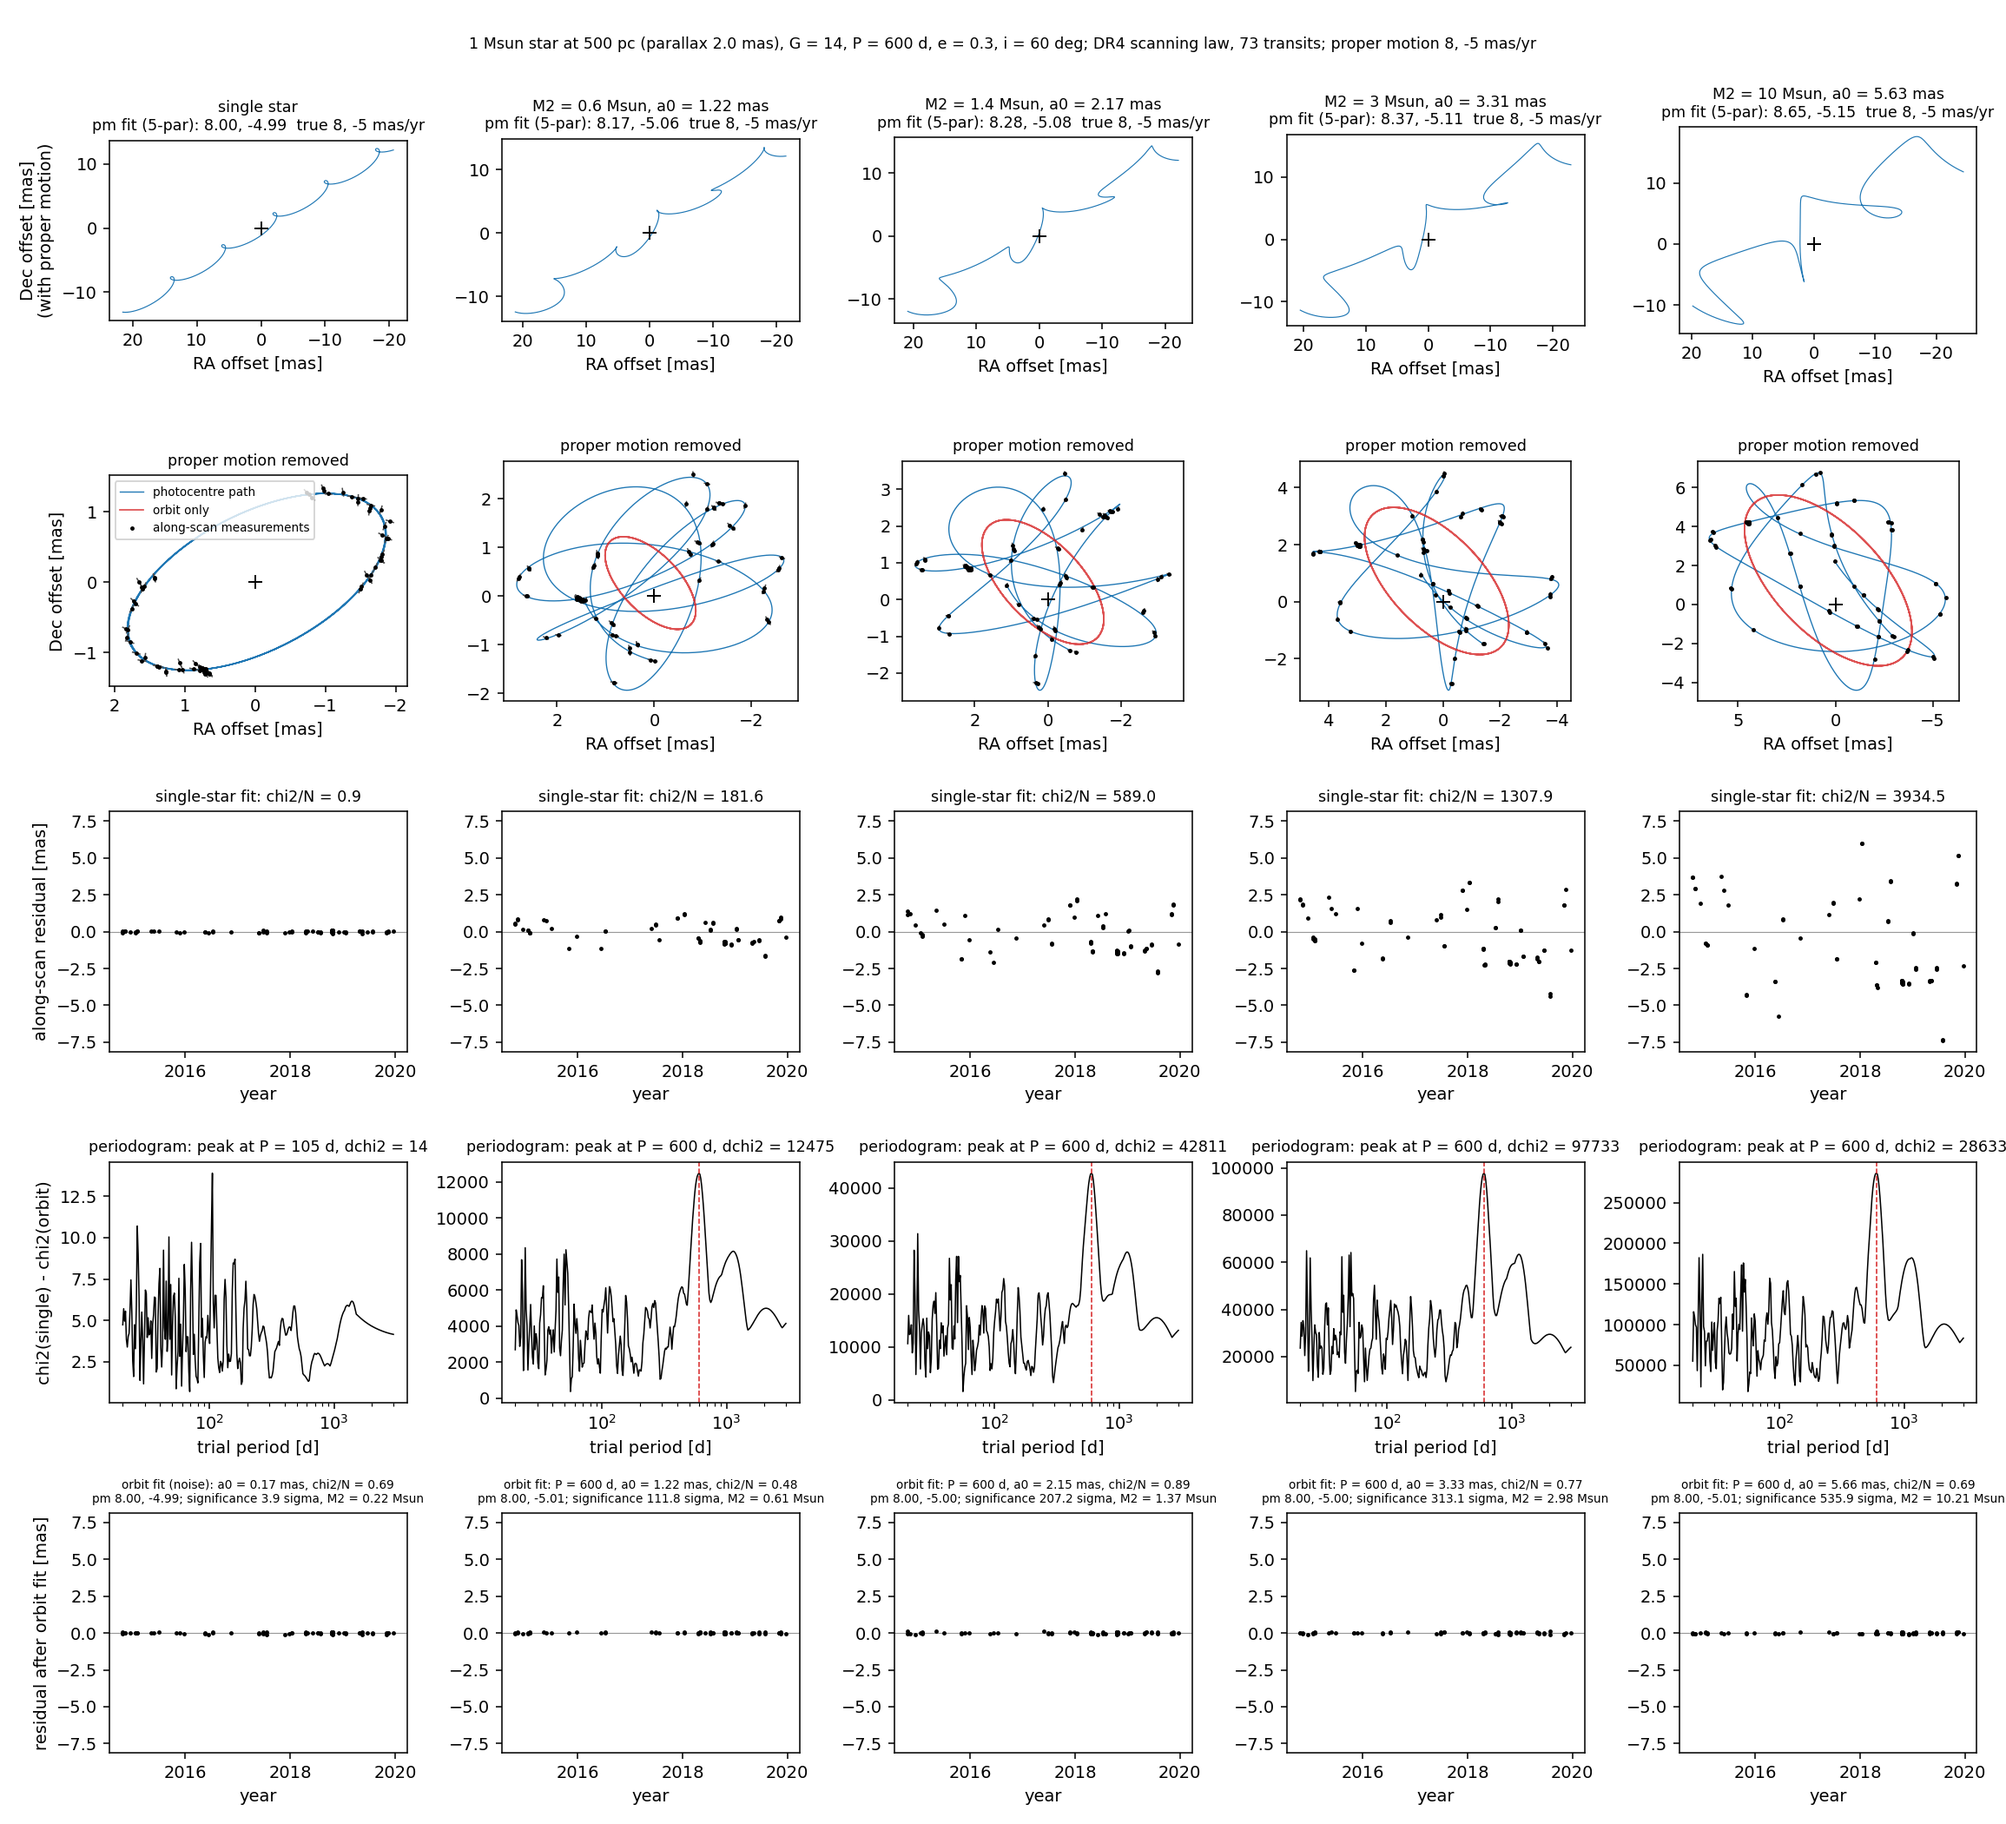
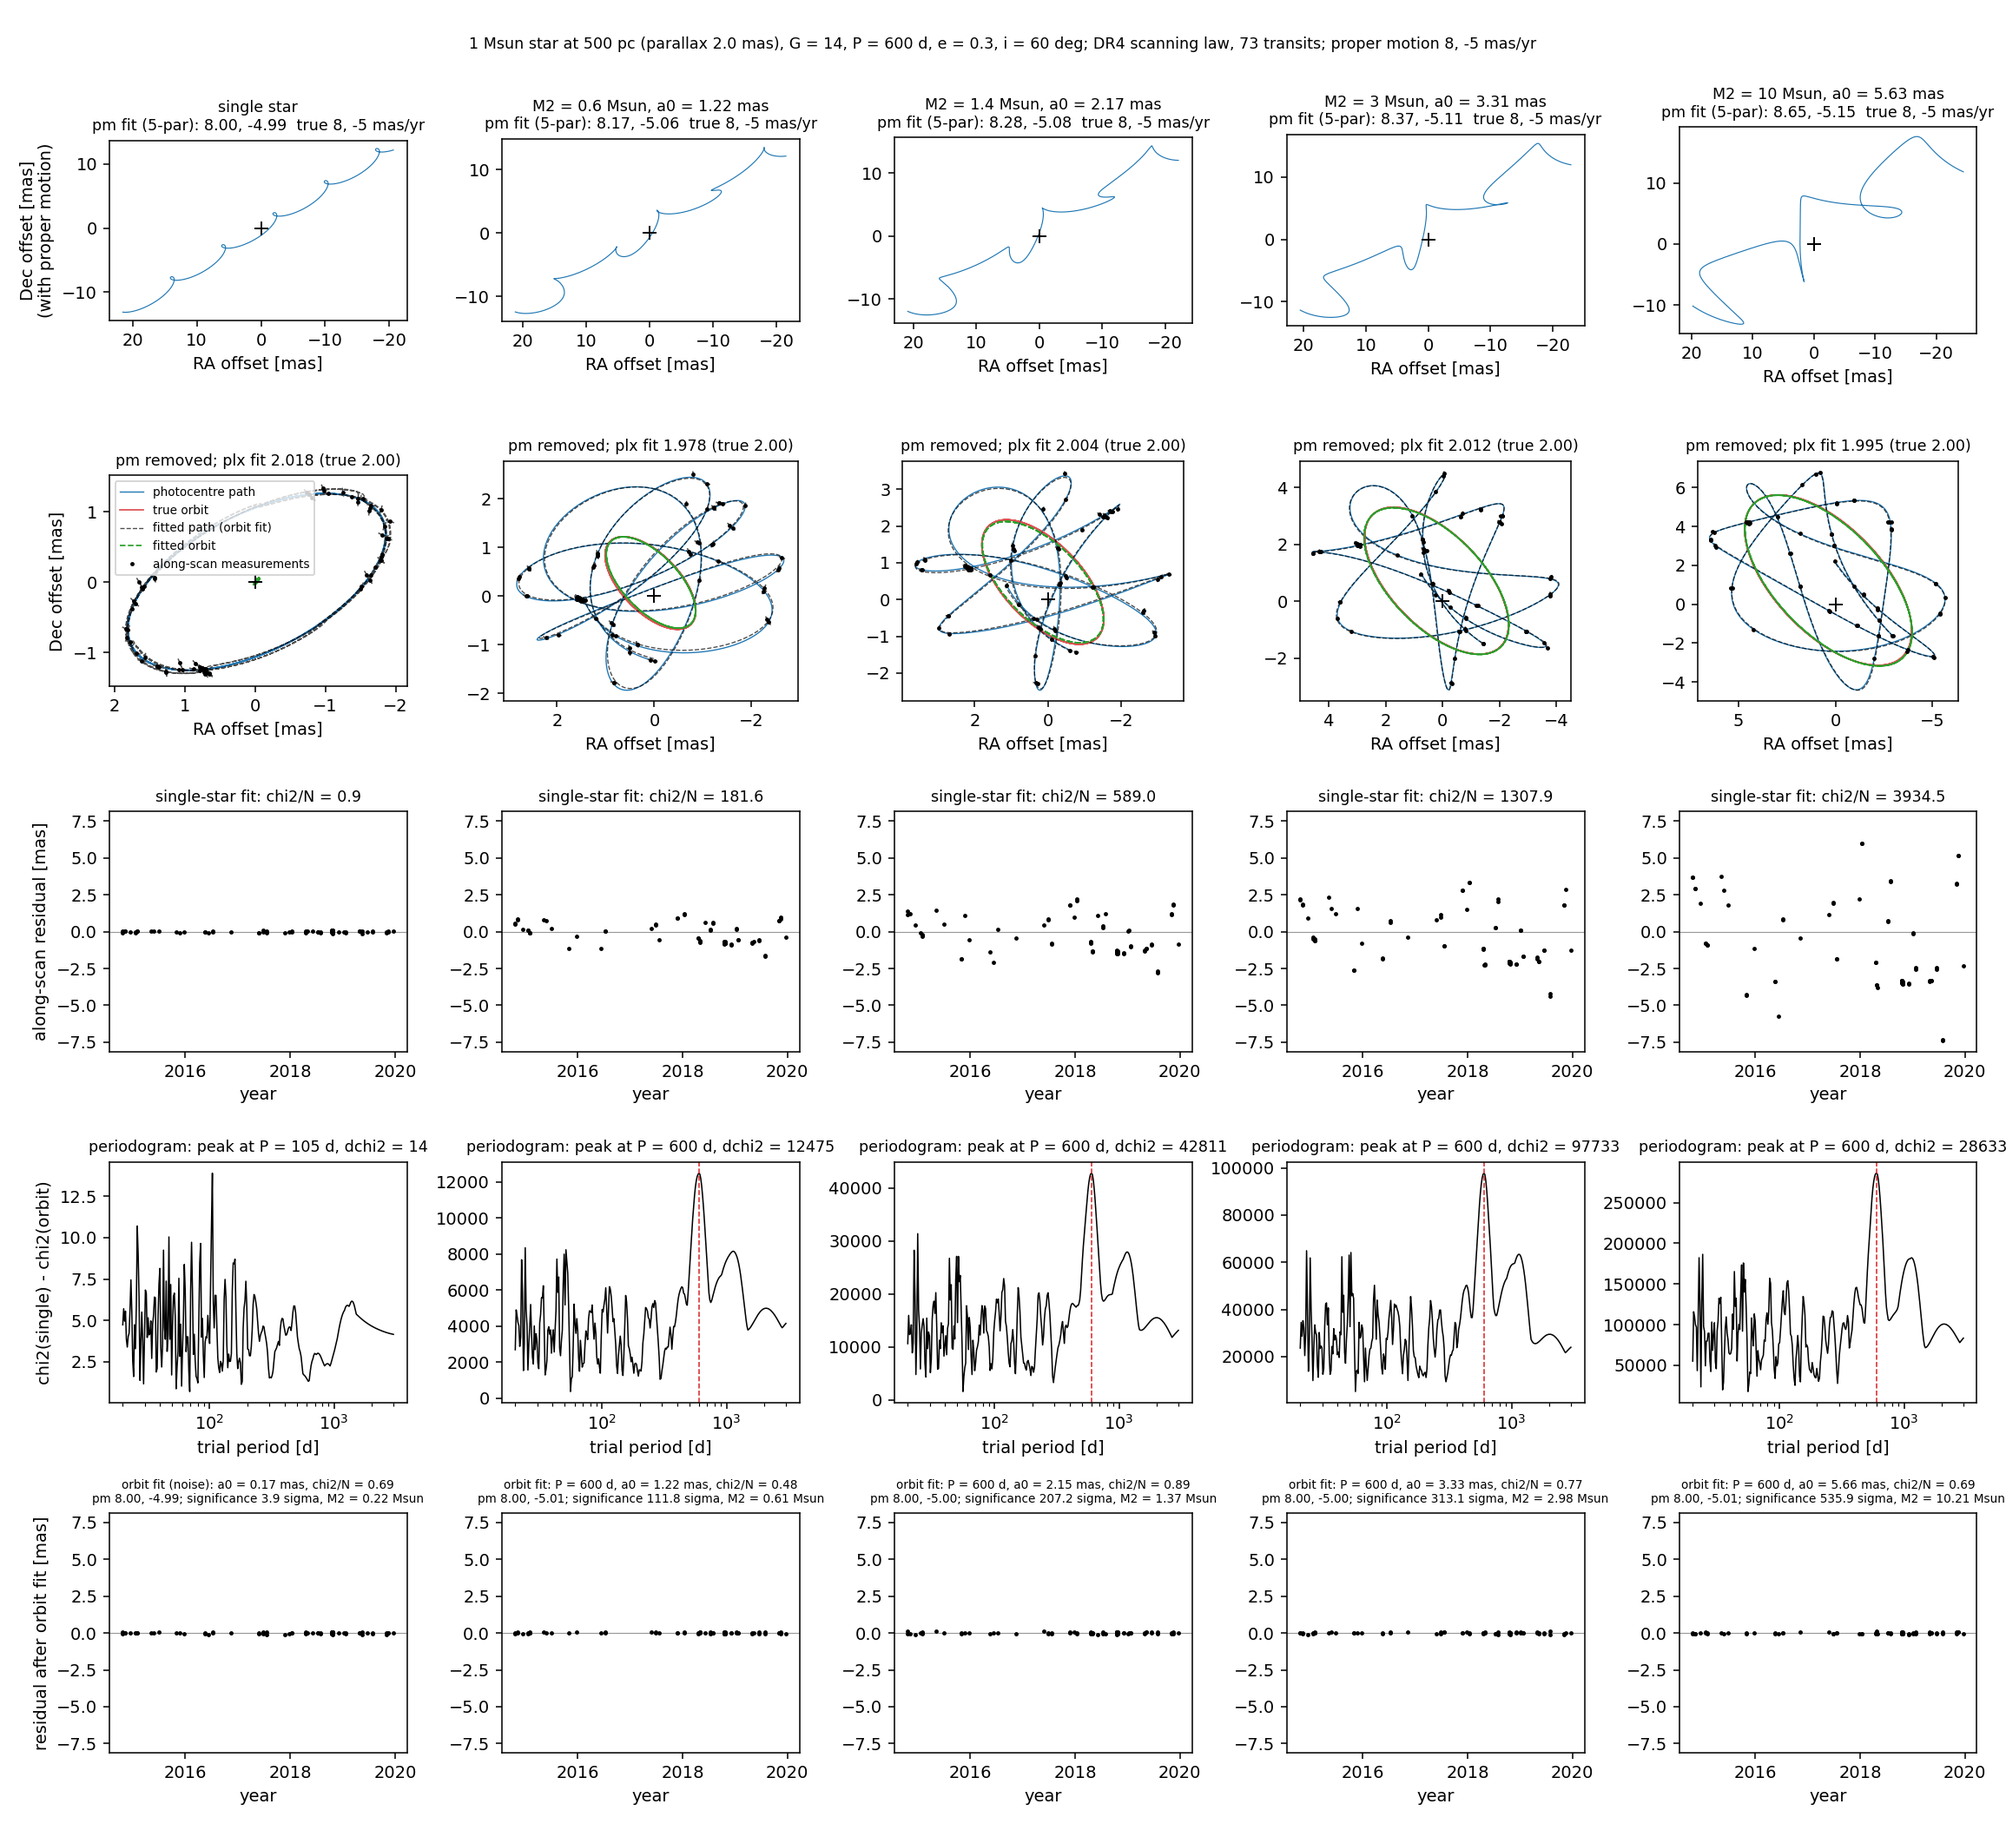
Track figure: overlay the fitted path and fitted orbit

diff --git a/scripts/plot_tracks.py b/scripts/plot_tracks.py
@@ -77,6 +77,14 @@ for j, m2 in enumerate(args.m2):
     ora_s, odec_s = B * Xs + G * Ys, A * Xs + F * Ys
     w_model = (p["pmra"] * ts / 365.25 + ora_s) * np.sin(psi_s) + (p["pmdec"] * ts / 365.25 + odec_s) * np.cos(psi_s) + plx * ep.plx_factor[keep]
     resid = w_obs - w_model
+    # the orbital fit (steps 2 and 3 of the pipeline), needed here to overlay the fitted track
+    ll, be, bp = E.period_search(d, periods); ll = np.asarray(ll); k = int(np.argmax(ll))
+    dchi2 = 2 * (ll - (-0.5 * float(chi2)))
+    r = E.refine_profile(d, periods[k], float(be[k]), float(bp[k])); lf = r["linear"]
+    M = E.orbital_design(d, r["period"], r["ecc"], r["phase"]); beta9, chi2o, _ = E.weighted_lstsq(M, d)
+    Xf, Yf = (np.asarray(x) for x in E.keplerian_xy(jnp.asarray(t_dense), r["period"], r["ecc"], r["phase"]))
+    fra, fdec = lf["B"] * Xf + lf["G"] * Yf, lf["A"] * Xf + lf["F"] * Yf          # fitted orbit
+    sra, sdec = lf["d_ra_mas"] + (lf["parallax"] / plx) * pra, lf["d_dec_mas"] + (lf["parallax"] / plx) * pdec   # fitted offsets + parallax
     # row 1: full path with proper motion
     a = ax[0, j]
     a.plot(p["pmra"] * t_yr + pra + ora, p["pmdec"] * t_yr + pdec + odec, "-", lw=0.6, c="C0")
@@ -90,12 +98,14 @@ for j, m2 in enumerate(args.m2):
     # row 2: proper motion removed, with the 1-D measurements
     a = ax[1, j]
     a.plot(pra + ora, pdec + odec, "-", lw=0.7, c="C0", label="photocentre path")
-    a.plot(ora, odec, "-", lw=0.9, c="C3", alpha=0.8, label="orbit only")
+    a.plot(ora, odec, "-", lw=0.9, c="C3", alpha=0.8, label="true orbit")
+    a.plot(sra + fra, sdec + fdec, "--", lw=0.7, c="k", alpha=0.7, label="fitted path (orbit fit)")
+    a.plot(lf["d_ra_mas"] + fra, lf["d_dec_mas"] + fdec, "--", lw=0.9, c="C2", label="fitted orbit")
     xo, yo = pra_s + ora_s + resid * np.sin(psi_s), pdec_s + odec_s + resid * np.cos(psi_s)
     a.plot([xo - err_s * np.sin(psi_s), xo + err_s * np.sin(psi_s)], [yo - err_s * np.cos(psi_s), yo + err_s * np.cos(psi_s)], "-", c="0.3", lw=0.8)
     a.plot(xo, yo, ".", c="k", ms=3, label="along-scan measurements")
     a.plot(0, 0, "k+", ms=8); a.set_aspect("equal"); a.invert_xaxis()
-    a.set_title("proper motion removed", fontsize=9); a.set_xlabel("RA offset [mas]")
+    a.set_title(f"pm removed; plx fit {lf['parallax']:.3f} (true {plx:.2f})", fontsize=9); a.set_xlabel("RA offset [mas]")
     if j == 0:
         a.set_ylabel("Dec offset [mas]"); a.legend(fontsize=7, loc="upper left")
     # bottom: along-scan residuals after a single-star fit, at gaiamock scan times
@@ -108,17 +118,12 @@ for j, m2 in enumerate(args.m2):
     if j == 0:
         b.set_ylabel("along-scan residual [mas]")
     # periodogram (step 2) and orbital fit (step 3)
-    ll, be, bp = E.period_search(d, periods); ll = np.asarray(ll); k = int(np.argmax(ll))
-    dchi2 = 2 * (ll - (-0.5 * float(chi2)))
     cpg = ax[3, j]; cpg.semilogx(periods, dchi2, "-", lw=0.8, c="k")
     if m2 > 0:
         cpg.axvline(p["period"], c="C3", lw=0.8, ls="--")
     cpg.set_title(f"periodogram: peak at P = {periods[k]:.0f} d, dchi2 = {dchi2[k]:.0f}", fontsize=9); cpg.set_xlabel("trial period [d]")
     if j == 0:
         cpg.set_ylabel("chi2(single) - chi2(orbit)")
-    r = E.refine_profile(d, periods[k], float(be[k]), float(bp[k]))
-    M = E.orbital_design(d, r["period"], r["ecc"], r["phase"])
-    beta9, chi2o, _ = E.weighted_lstsq(M, d)
     res_o = np.asarray(d["w"] - M @ beta9)[ep.mask > 0]
     cf = ax[4, j]; cf.errorbar(ep.t_day[ep.mask > 0] / 365.25 + 2017.5, res_o, yerr=ep.err[ep.mask > 0], fmt=".", ms=3, lw=0.6, c="k"); cf.axhline(0, c="0.6", lw=0.6)
     cf.set_title((f"orbit fit: P = {r['period']:.0f} d, a0 = {r['a0_mas']:.2f} mas, " if m2 > 0 else f"orbit fit (noise): a0 = {r['a0_mas']:.2f} mas, ") + f"chi2/N = {float(chi2o)/ep.n:.2f}\npm {r['linear']['pmra']:.2f}, {r['linear']['pmdec']:.2f}; significance {r['significance']:.1f} sigma, M2 = {float(m2_from_mass_function(mass_function_astrometric(r['a0_mas'], r['linear']['parallax'], r['period']), args.m_star)):.2f} Msun", fontsize=7)
